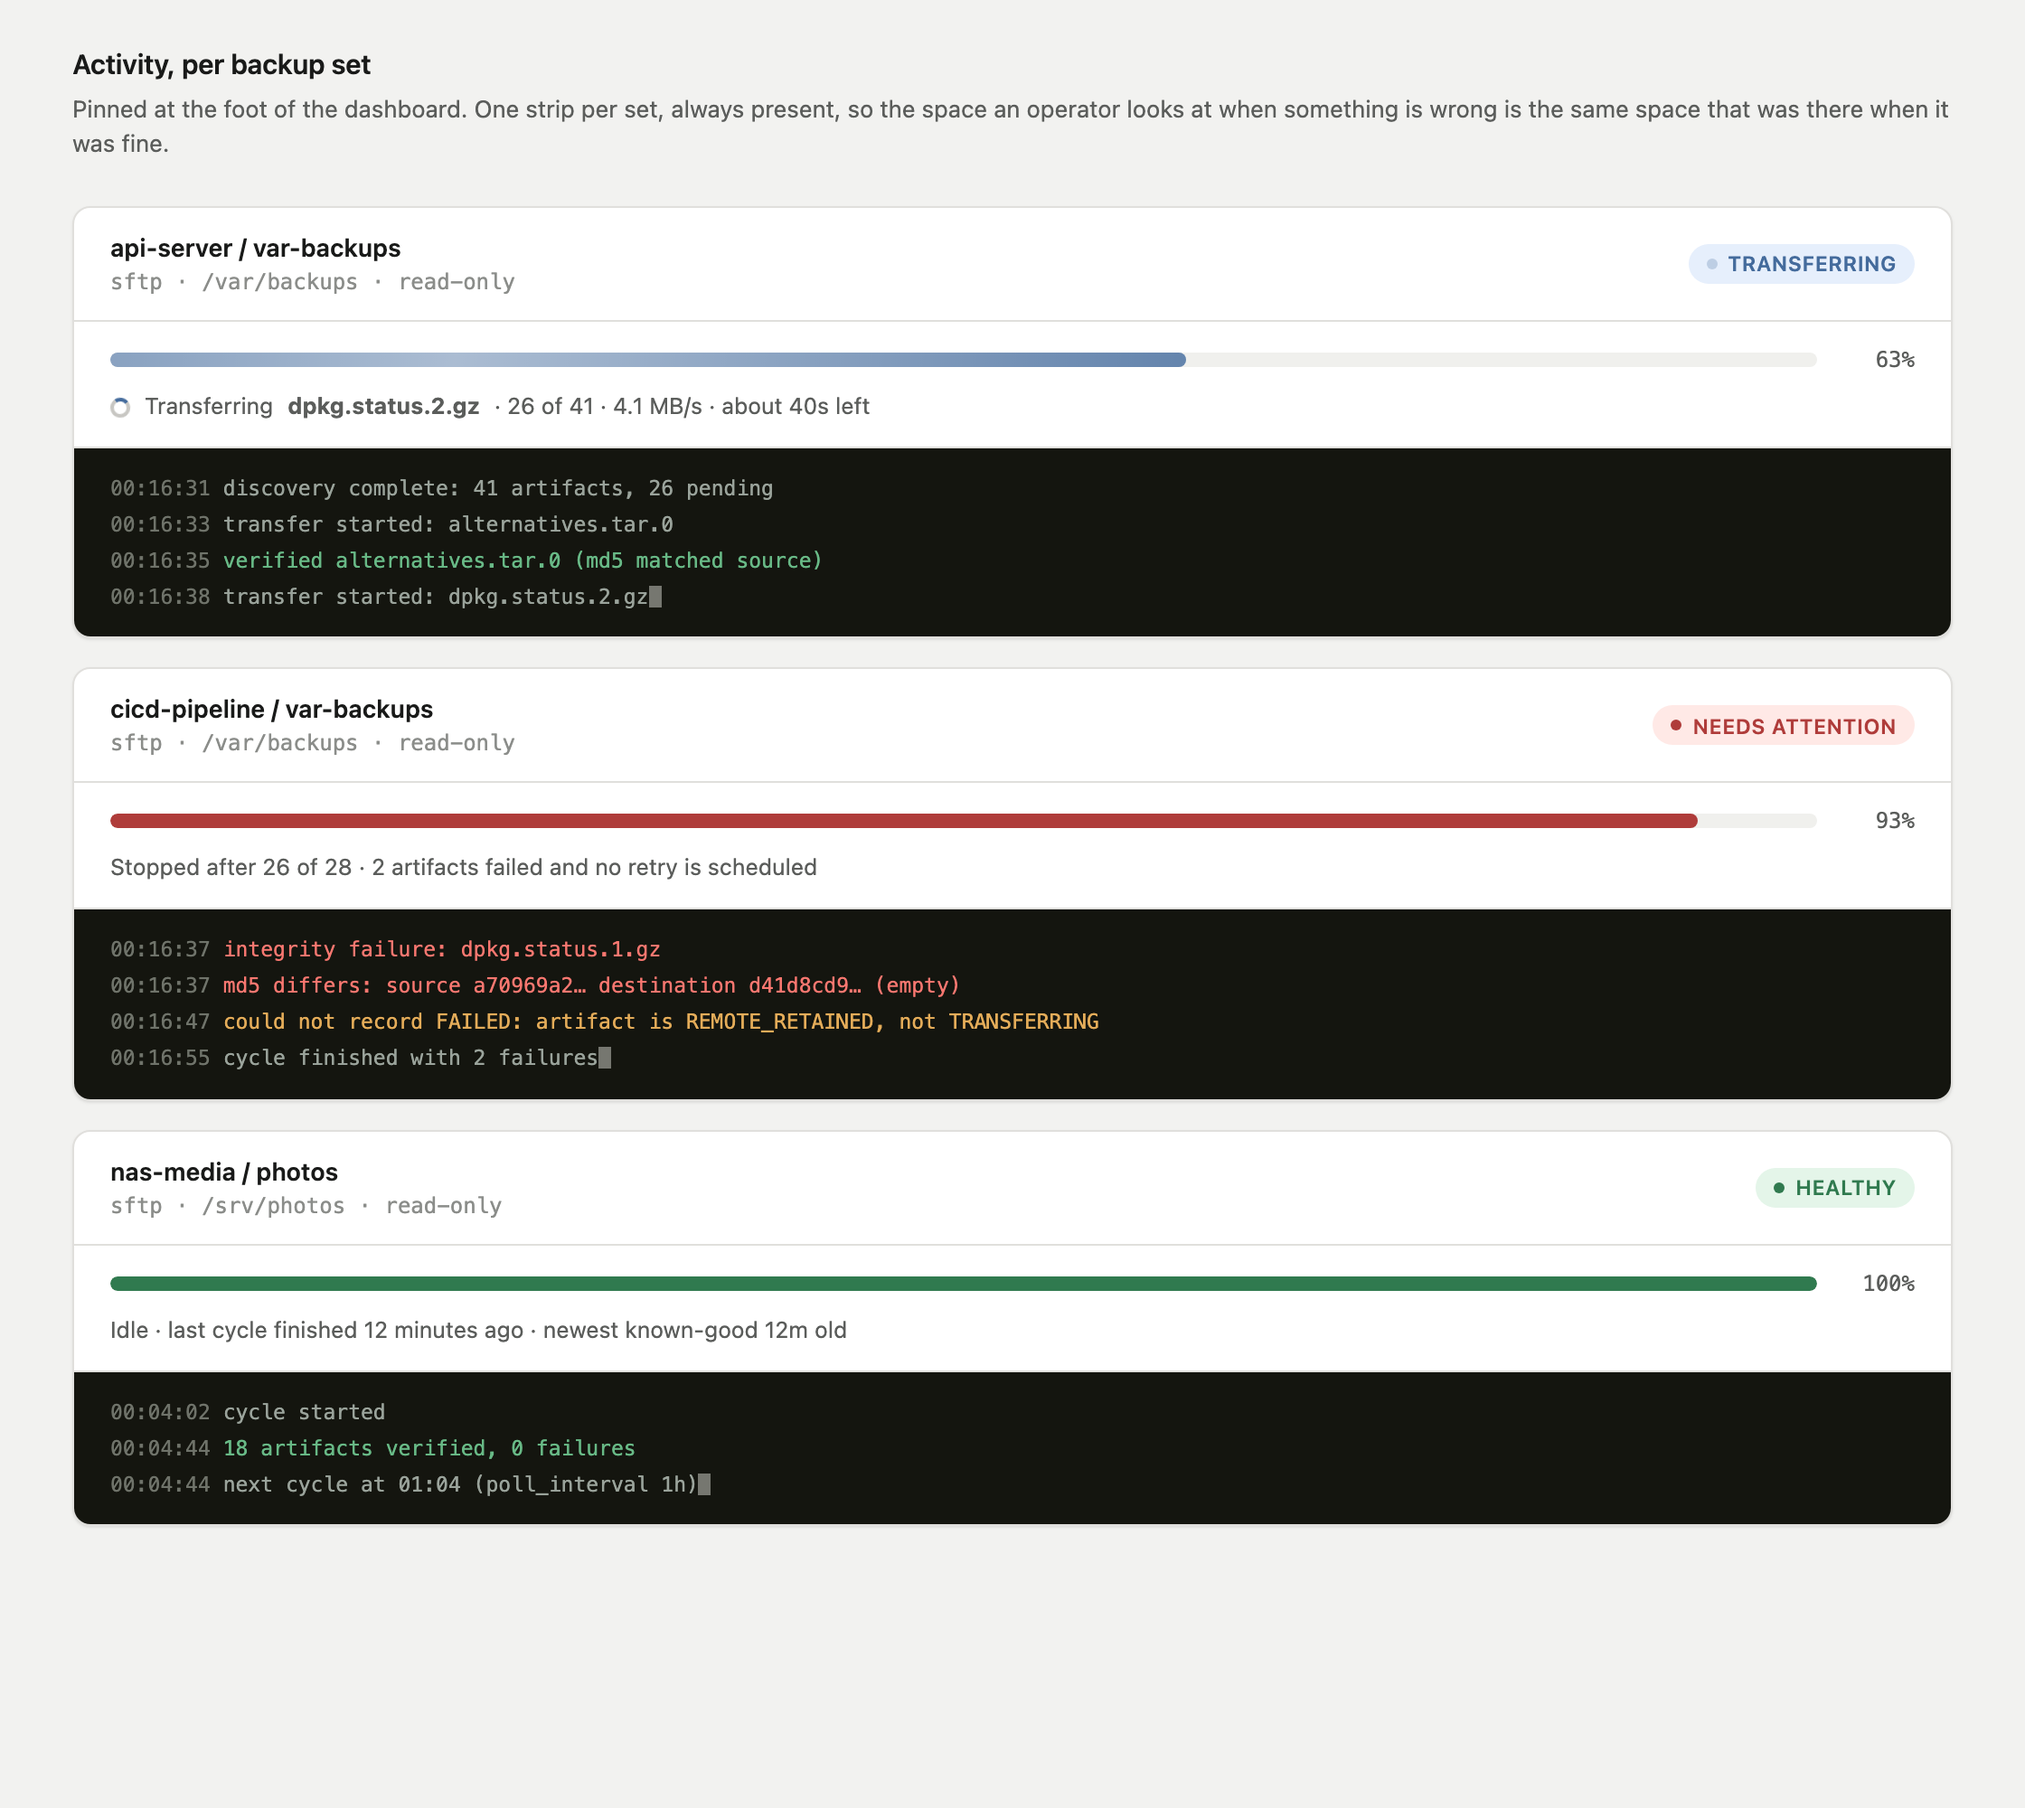
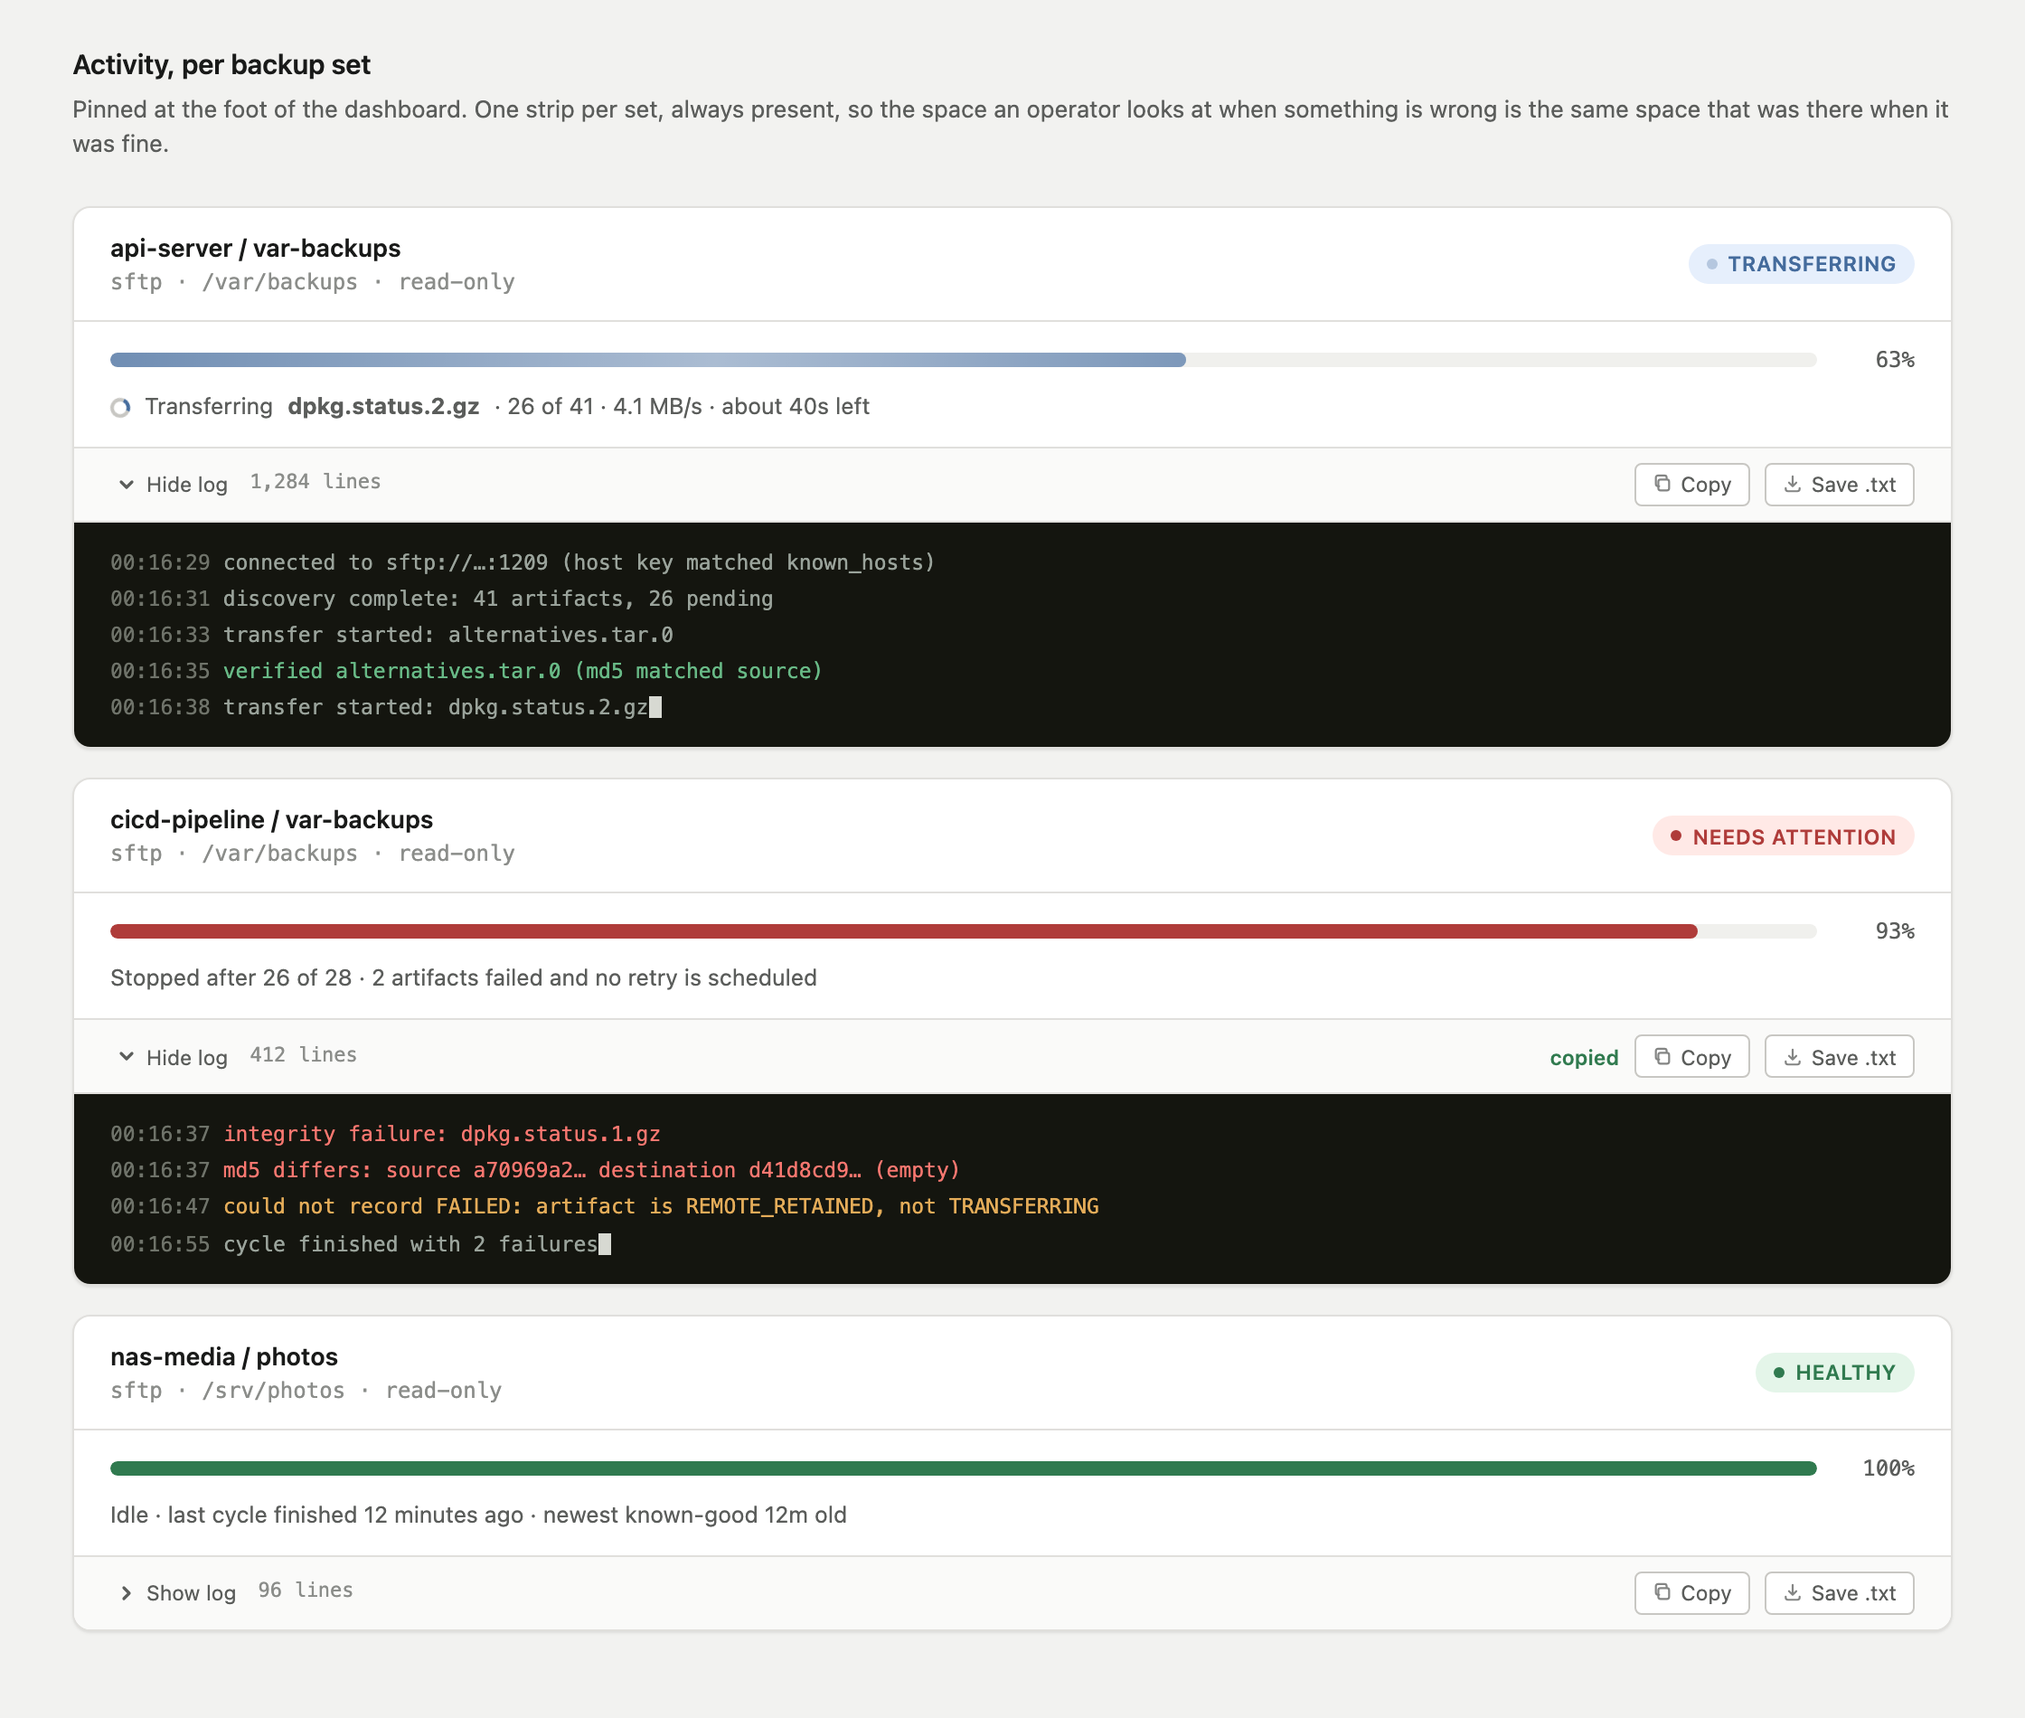
Show the log being collapsed, scrolled and taken away
Rom asked for three things the first mockup did not answer: whether the
log can be got out of the way, whether you can read further back than
the strip is tall, and how you get the text somewhere else.

So the terminal has a bar of its own now. Hide log and Show log, with the
third card drawn collapsed so the closed state is a thing you can look at
rather than imagine. A line count beside it, because 1,284 lines and 96
lines want different expectations of scrolling. Copy and Save .txt on the
right, and the middle card is drawn a moment after Copy, since a button
that gives no acknowledgement gets pressed twice.

The log scrolls with a visible track rather than a hidden one. An
operator who cannot see that there is more above the first line will not
go looking for it, and the whole point of keeping history here is that
the line before an error is usually what explains it.

Collapsing hides the log and keeps the bar and the current step, so a
folded card still says what the set is doing. Folding the status away
too would make the strip worth folding, and then it may as well not be
pinned.

diff --git a/docs/design/activity-terminal.html b/docs/design/activity-terminal.html
@@ -65,6 +65,33 @@ h1{font-size:15px;font-weight:600;margin:0 0 var(--space-1);letter-spacing:-.01e
 .term .cur{display:inline-block;width:7px;height:12px;background:#d7d9d2;vertical-align:-2px;
   animation:blink 1.1s steps(2,start) infinite}
 @keyframes blink{50%{opacity:0}}
+
+/* terminal toolbar: collapse, scrollback size, export */
+.termbar{display:flex;align-items:center;gap:var(--space-2);
+  padding:var(--space-2) var(--space-5);border-top:1px solid var(--border);
+  background:var(--surface-2);font-size:11.5px;color:var(--text-2)}
+.termbar .grow{flex:1}
+.chev{display:inline-flex;align-items:center;gap:6px;background:none;border:0;padding:2px 4px;
+  font:inherit;font-size:11.5px;color:var(--text-2);cursor:pointer;border-radius:var(--radius-sm)}
+.chev:hover{background:var(--surface-3);color:var(--text)}
+.chev svg{transition:transform .15s ease}
+.chev--closed svg{transform:rotate(-90deg)}
+.lines{font-family:var(--font-mono);color:var(--text-3);font-size:11px}
+.tbtn{height:24px;padding:0 9px;border:1px solid var(--border-strong);border-radius:var(--radius-sm);
+  background:var(--surface);color:var(--text-2);font:inherit;font-size:11.5px;cursor:pointer;
+  display:inline-flex;align-items:center;gap:5px}
+.tbtn:hover{background:var(--surface-3);color:var(--text)}
+.tbtn svg{opacity:.75}
+.copied{color:var(--ok);font-weight:600}
+
+/* scrollable log with a visible track so the affordance is not a surprise */
+.term{max-height:132px;overflow-y:scroll;scrollbar-width:thin;
+  scrollbar-color:#3a3d36 #14150f}
+.term::-webkit-scrollbar{width:9px}
+.term::-webkit-scrollbar-track{background:#14150f}
+.term::-webkit-scrollbar-thumb{background:#3a3d36;border-radius:var(--radius-pill);
+  border:2px solid #14150f}
+.term--collapsed{display:none}
 </style>
 <div class="wrap">
   <div>
@@ -86,7 +113,15 @@ h1{font-size:15px;font-weight:600;margin:0 0 var(--space-1);letter-spacing:-.01e
     </div>
     <div class="step"><span class="spinner"></span>
       Transferring <strong>dpkg.status.2.gz</strong> · 26 of 41 · 4.1 MB/s · about 40s left</div>
+    <div class="termbar">
+      <button class="chev"><svg width="10" height="10" viewBox="0 0 10 10" fill="none"><path d="M2 3.5L5 6.5L8 3.5" stroke="currentColor" stroke-width="1.6" stroke-linecap="round" stroke-linejoin="round"/></svg>Hide log</button>
+      <span class="lines">1,284 lines</span>
+      <span class="grow"></span>
+      <button class="tbtn"><svg width="11" height="11" viewBox="0 0 12 12" fill="none"><rect x="3.5" y="3.5" width="6.5" height="6.5" rx="1.3" stroke="currentColor" stroke-width="1.2"/><path d="M8.5 3V2.3A1.3 1.3 0 007.2 1H3.3A1.3 1.3 0 002 2.3v3.9A1.3 1.3 0 003.3 7.5H4" stroke="currentColor" stroke-width="1.2" stroke-linecap="round"/></svg>Copy</button>
+      <button class="tbtn"><svg width="11" height="11" viewBox="0 0 12 12" fill="none"><path d="M6 1.5v6m0 0L3.8 5.3M6 7.5l2.2-2.2" stroke="currentColor" stroke-width="1.2" stroke-linecap="round" stroke-linejoin="round"/><path d="M1.8 8.6v.6A1.3 1.3 0 003.1 10.5h5.8a1.3 1.3 0 001.3-1.3v-.6" stroke="currentColor" stroke-width="1.2" stroke-linecap="round"/></svg>Save .txt</button>
+    </div>
     <div class="term">
+      <div><span class="t">00:16:29</span> <span class="i">connected to sftp://…:1209 (host key matched known_hosts)</span></div>
       <div><span class="t">00:16:31</span> <span class="i">discovery complete: 41 artifacts, 26 pending</span></div>
       <div><span class="t">00:16:33</span> <span class="i">transfer started: alternatives.tar.0</span></div>
       <div><span class="t">00:16:35</span> <span class="g">verified alternatives.tar.0 (md5 matched source)</span></div>
@@ -106,6 +141,13 @@ h1{font-size:15px;font-weight:600;margin:0 0 var(--space-1);letter-spacing:-.01e
       <span class="pct">93%</span>
     </div>
     <div class="step">Stopped after 26 of 28 · 2 artifacts failed and no retry is scheduled</div>
+    <div class="termbar">
+      <button class="chev"><svg width="10" height="10" viewBox="0 0 10 10" fill="none"><path d="M2 3.5L5 6.5L8 3.5" stroke="currentColor" stroke-width="1.6" stroke-linecap="round" stroke-linejoin="round"/></svg>Hide log</button>
+      <span class="lines">412 lines</span>
+      <span class="grow"></span><span class="copied">copied</span>
+      <button class="tbtn"><svg width="11" height="11" viewBox="0 0 12 12" fill="none"><rect x="3.5" y="3.5" width="6.5" height="6.5" rx="1.3" stroke="currentColor" stroke-width="1.2"/><path d="M8.5 3V2.3A1.3 1.3 0 007.2 1H3.3A1.3 1.3 0 002 2.3v3.9A1.3 1.3 0 003.3 7.5H4" stroke="currentColor" stroke-width="1.2" stroke-linecap="round"/></svg>Copy</button>
+      <button class="tbtn"><svg width="11" height="11" viewBox="0 0 12 12" fill="none"><path d="M6 1.5v6m0 0L3.8 5.3M6 7.5l2.2-2.2" stroke="currentColor" stroke-width="1.2" stroke-linecap="round" stroke-linejoin="round"/><path d="M1.8 8.6v.6A1.3 1.3 0 003.1 10.5h5.8a1.3 1.3 0 001.3-1.3v-.6" stroke="currentColor" stroke-width="1.2" stroke-linecap="round"/></svg>Save .txt</button>
+    </div>
     <div class="term">
       <div><span class="t">00:16:37</span> <span class="e">integrity failure: dpkg.status.1.gz</span></div>
       <div><span class="t">00:16:37</span> <span class="e">  md5 differs: source a70969a2… destination d41d8cd9… (empty)</span></div>
@@ -126,7 +168,14 @@ h1{font-size:15px;font-weight:600;margin:0 0 var(--space-1);letter-spacing:-.01e
       <span class="pct">100%</span>
     </div>
     <div class="step">Idle · last cycle finished 12 minutes ago · newest known-good 12m old</div>
-    <div class="term">
+    <div class="termbar">
+      <button class="chev chev--closed"><svg width="10" height="10" viewBox="0 0 10 10" fill="none"><path d="M2 3.5L5 6.5L8 3.5" stroke="currentColor" stroke-width="1.6" stroke-linecap="round" stroke-linejoin="round"/></svg>Show log</button>
+      <span class="lines">96 lines</span>
+      <span class="grow"></span>
+      <button class="tbtn"><svg width="11" height="11" viewBox="0 0 12 12" fill="none"><rect x="3.5" y="3.5" width="6.5" height="6.5" rx="1.3" stroke="currentColor" stroke-width="1.2"/><path d="M8.5 3V2.3A1.3 1.3 0 007.2 1H3.3A1.3 1.3 0 002 2.3v3.9A1.3 1.3 0 003.3 7.5H4" stroke="currentColor" stroke-width="1.2" stroke-linecap="round"/></svg>Copy</button>
+      <button class="tbtn"><svg width="11" height="11" viewBox="0 0 12 12" fill="none"><path d="M6 1.5v6m0 0L3.8 5.3M6 7.5l2.2-2.2" stroke="currentColor" stroke-width="1.2" stroke-linecap="round" stroke-linejoin="round"/><path d="M1.8 8.6v.6A1.3 1.3 0 003.1 10.5h5.8a1.3 1.3 0 001.3-1.3v-.6" stroke="currentColor" stroke-width="1.2" stroke-linecap="round"/></svg>Save .txt</button>
+    </div>
+    <div class="term term--collapsed">
       <div><span class="t">00:04:02</span> <span class="i">cycle started</span></div>
       <div><span class="t">00:04:44</span> <span class="g">18 artifacts verified, 0 failures</span></div>
       <div><span class="t">00:04:44</span> <span class="i">next cycle at 01:04 (poll_interval 1h)</span><span class="cur"></span></div>
